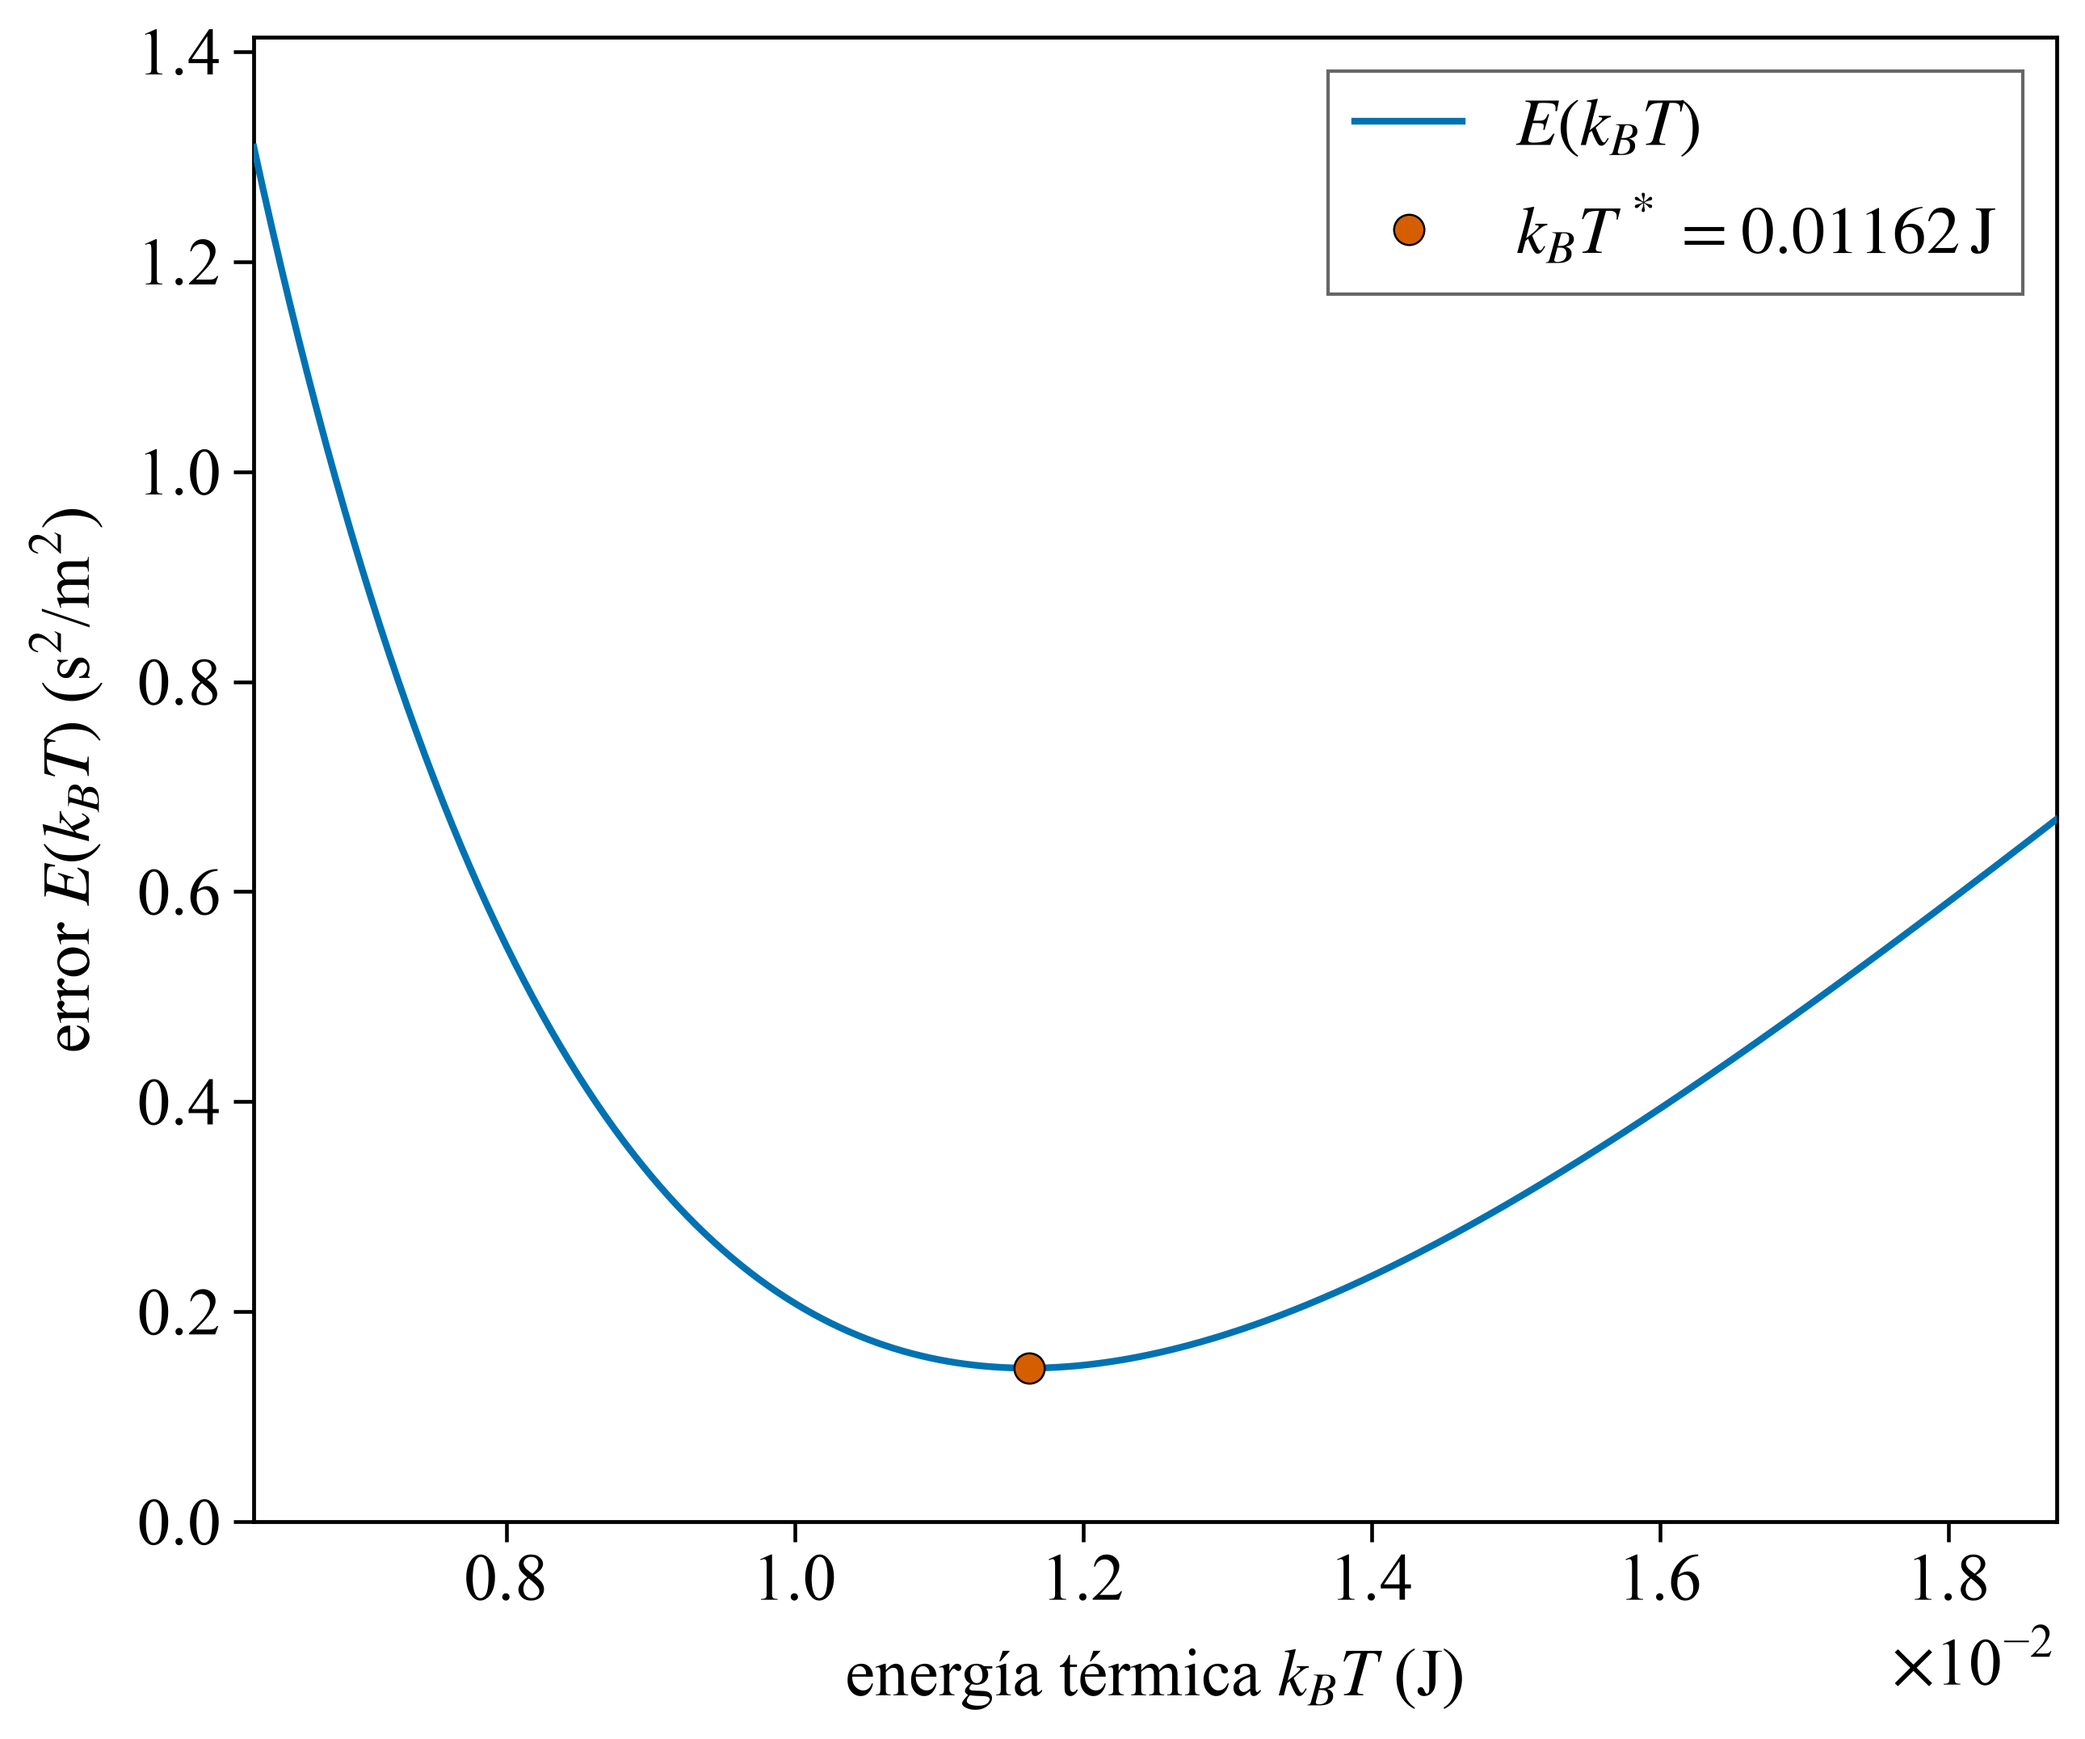
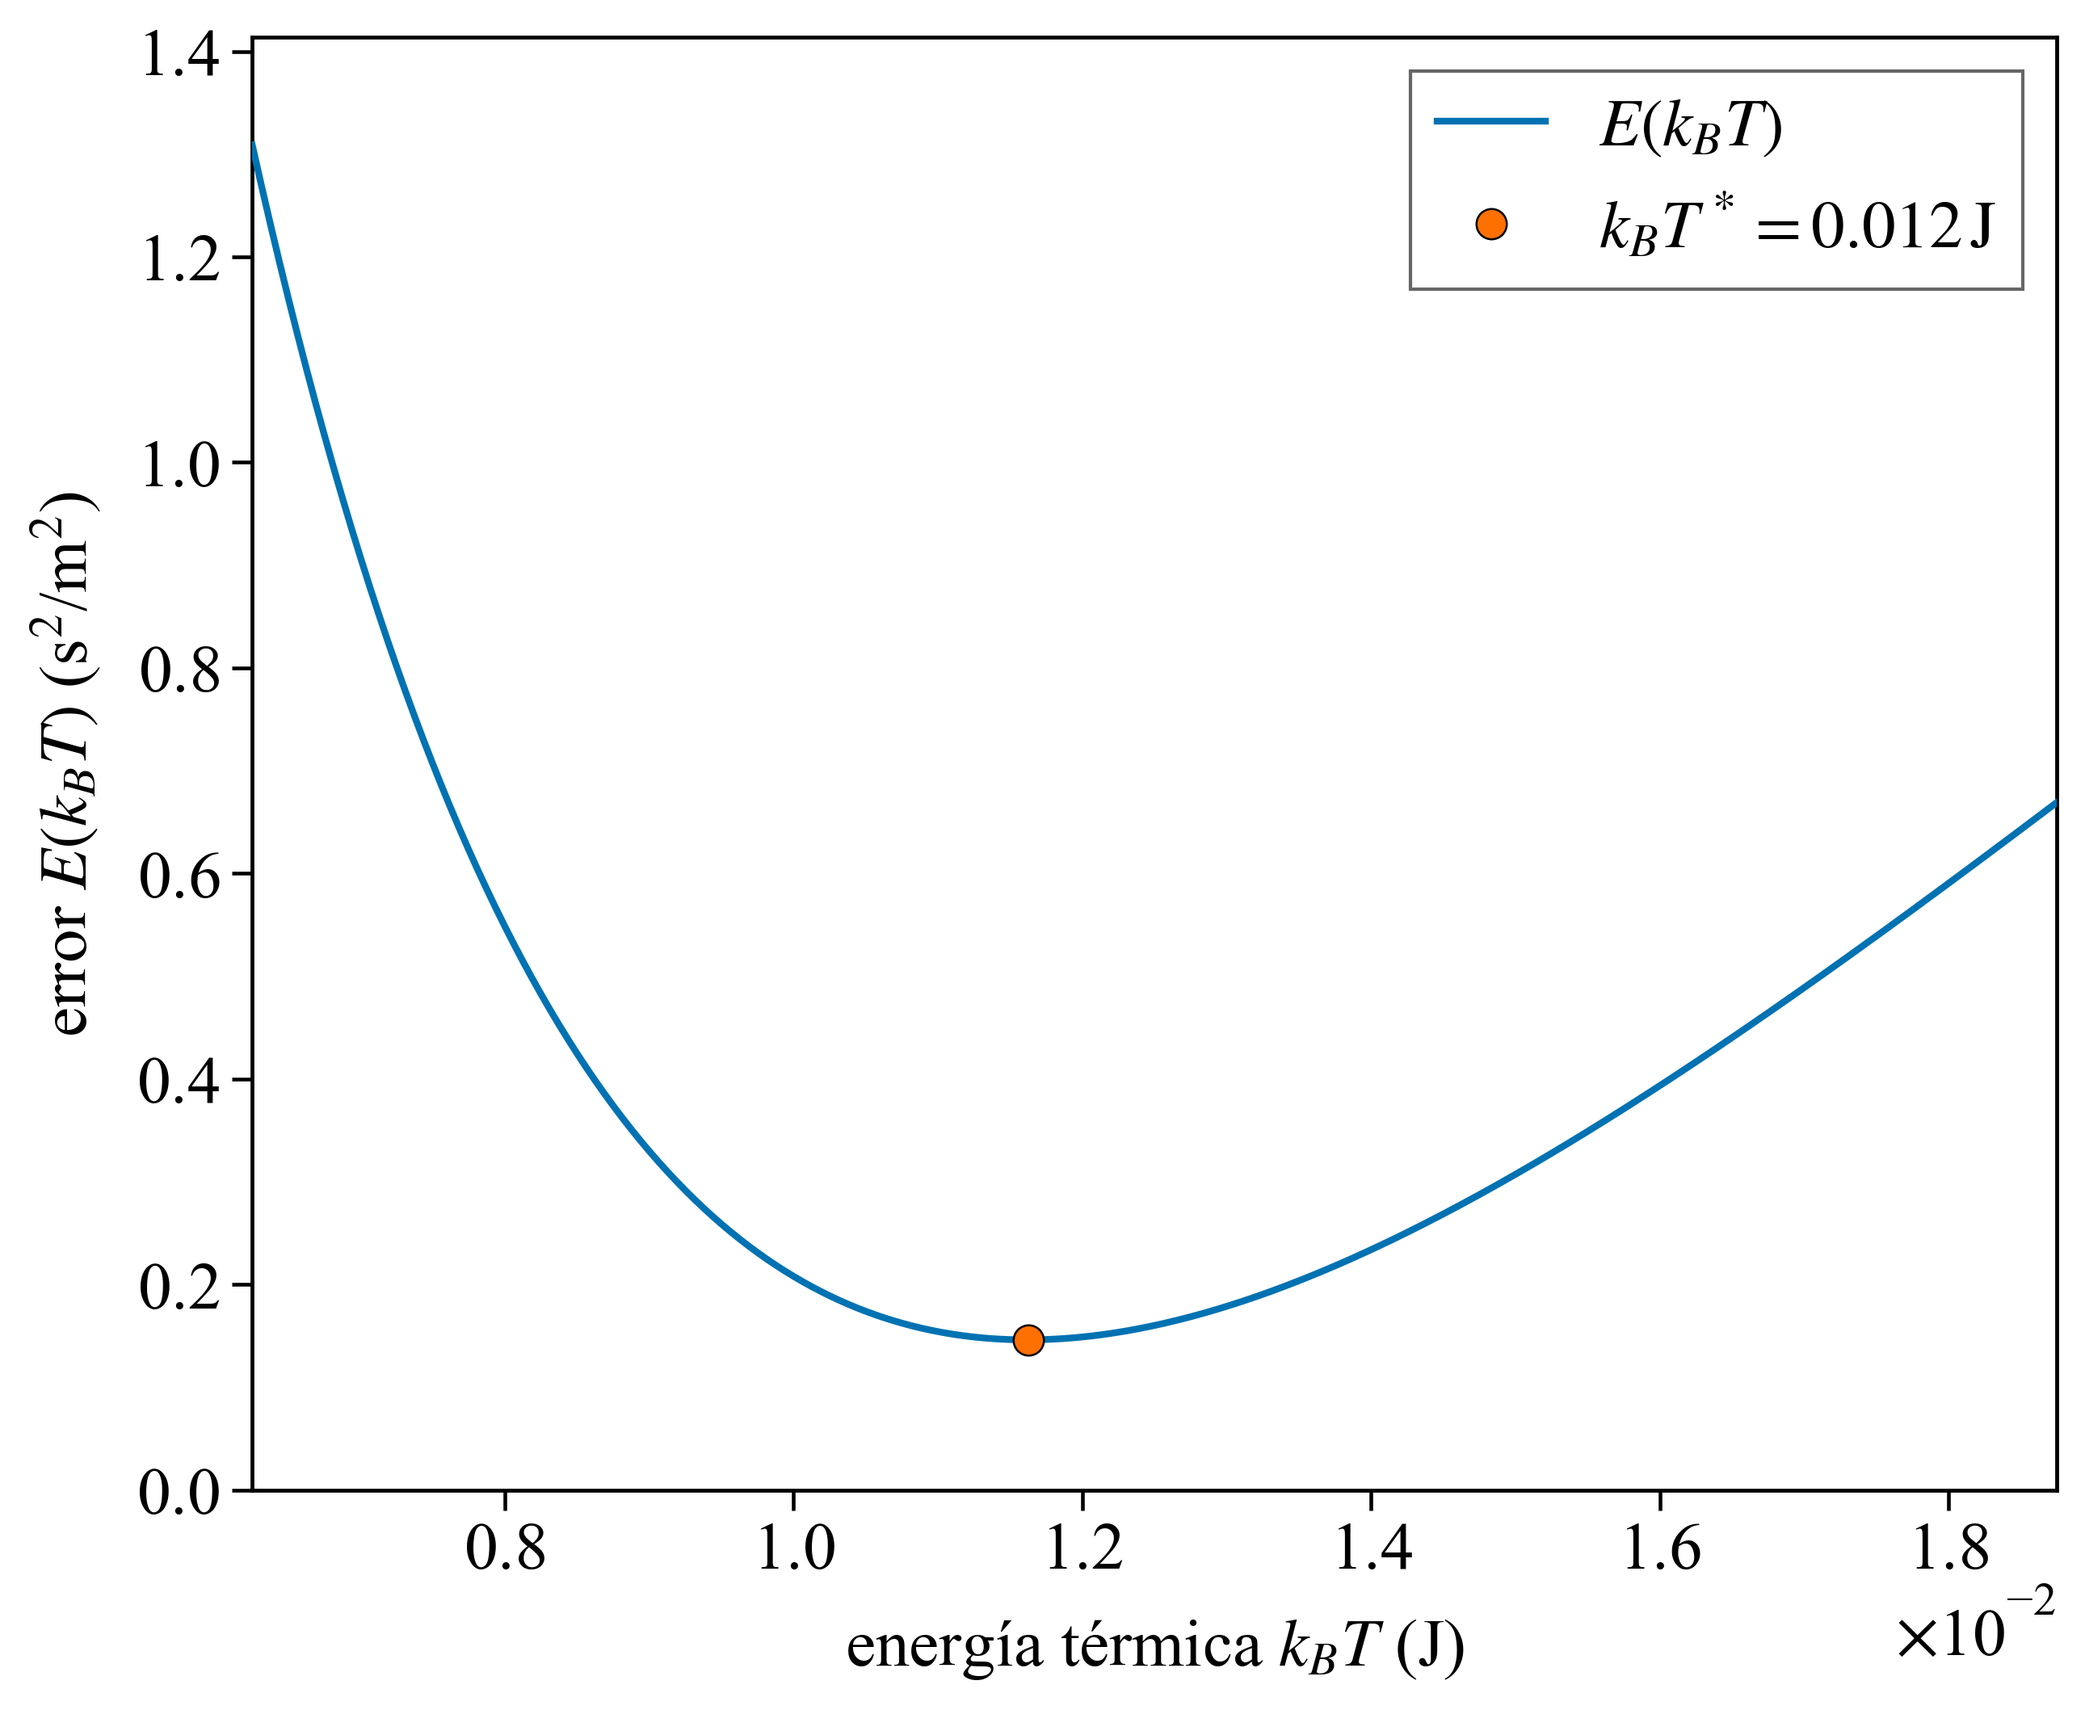
Various changes

diff --git a/docs/presentation/secciones/introduccion.tex b/docs/presentation/secciones/introduccion.tex
@@ -2,27 +2,36 @@
 
   \textbf{Ecuación de movimiento partícula $i$}:
   \[
-    m_i\,\ddot{\boldsymbol{r}}_i = \sum_{j\neq i} \boldsymbol{F}_{ij}
+    m_i\,\ddot{\vv{r}}_i = \sum_{j\neq i} \vv{F}_{ij}
   \]
 
   \textbf{Fuerza de contacto partícula $j$ sobre $i$}:
   \[
-    \boldsymbol{F}_{ij} = k\,[\xi_{ij}]_{+}\,\frac{\boldsymbol{r}_{ij}}{|\boldsymbol{r}_{ij}|},
+    \vv{F}_{ij} = k\,[\xi_{ij}]_{+}\,\frac{\vv{r}_{ij}}{|\vv{r}_{ij}|},
     \qquad
-    \xi_{ij} = r_i + r_j - |\boldsymbol{r}_{ij}|
+    \xi_{ij} = r_i + r_j - |\vv{r}_{ij}|
   \]
 
-  \begin{itemize}
-    \item $m_i$: masa partícula $i$
-    \item $k$: constante elástica
-    \item $r_i$: radio partícula $i$
-    \item $\xi_{ij}$: superposición entre $i$ y $j$
-  \end{itemize}
+  \begin{columns}[T]
+    \begin{column}{0.45\textwidth}
+      \begin{itemize}
+        \item $m_i$: masa partícula $i$
+        \item $r_i$: radio partícula $i$
+      \end{itemize}
+    \end{column}
+    \begin{column}{0.45\textwidth}
+      \begin{itemize}
+        \item $k$: constante elástica
+        \item $\xi_{ij}$: superposición entre $i$ y $j$
+      \end{itemize}
+    \end{column}
+  \end{columns}
 
+  \vspace{10pt}
   \textbf{Energía del sistema:}
   \[
-   E_{total} = \sum_{i=1}^{N} \frac{1}{2}\,m_i\,|\boldsymbol{v}_i|^{2}
-    + \sum_{i=1}^{N-1}\sum_{j=i+1}^{N} E^{pot}_{ij} 
-    \qquad E^{pot}_{ij} = \frac{k}{2}\,[\xi_{ij}]_{+}^{2},    
+   E_{total} = \sum_{i=1}^{N} \frac{1}{2}\,m_i\,|\vv{v}_i|^{2}
+    + \sum_{i=1}^{N-1}\sum_{j=i+1}^{N} E^{pot}_{ij}
+    \qquad E^{pot}_{ij} = \frac{k}{2}\,[\xi_{ij}]_{+}^{2},
   \]
 \end{frame}

diff --git a/docs/presentation/secciones/implementacion.tex b/docs/presentation/secciones/implementacion.tex
@@ -2,10 +2,8 @@
     \centering
     \begin{columns}
         \begin{column}{0.75\textwidth}
-            \begin{figure}
-                \centering
-            \includegraphics[width=1\linewidth]{uml_simple_billiard.png}
-            \end{figure}
+            \centering
+            \includegraphics[width=\linewidth,height=0.82\textheight,keepaspectratio]{uml_simple_billiard.png}
         \end{column}
         \begin{column}{0.25\textwidth}
             \begin{itemize}
@@ -13,4 +11,23 @@
             \end{itemize}
         \end{column}
     \end{columns}
+\end{frame}
+
+\begin{frame}[fragile]{Integración con Verlet}
+  \begin{columns}
+    \begin{column}{0.72\textwidth}
+      \begin{algorithmic}[1]
+        \Require $\vv{r}_i(0),\, \vv{v}_i(0)$, obstáculos, $dt$, $t_f$, $n$
+        \State $\vv{r}_i(-dt) \gets \vv{r}_i - \vv{v}_i\,dt + \frac{dt^2}{2m}\vv{F}_i$
+        \For{$t = 0,\, dt,\, \dots,\, t_f$}
+          \State $\vv{F}_i \gets \sum_j \vv{F}_{ij}$
+          \State frescas con $\xi_{io} > 0$ $\to$ usadas
+          \State $\vv{r}_i(t+dt) \gets 2\vv{r}_i(t) - \vv{r}_i(t-dt) + \frac{dt^2}{m}\vv{F}_i$
+          \State $\vv{v}_i(t) \gets \frac{\vv{r}_i(t+dt) - \vv{r}_i(t-dt)}{2\,dt}$
+          \If{paso múltiplo de $n$} escribir $t,\, \vv{r}_i,\, \vv{v}_i$, estado
+          \EndIf
+        \EndFor
+      \end{algorithmic}
+    \end{column}
+  \end{columns}
 \end{frame}

diff --git a/docs/presentation/secciones/simulaciones.tex b/docs/presentation/secciones/simulaciones.tex
@@ -40,8 +40,36 @@
       \begin{itemize}\setlength{\itemsep}{12pt}
         \item Deriva: $\max_t |E(t) - E(0)|/|E(0)|$
         \item $f(v) = N_i/(N\,\Delta v)$, con $v = |\vv{v}|$
-        \item Promedio y desvío estándar muestral
       \end{itemize}
+    \end{column}
+  \end{columns}
+  \vspace{14pt}
+  \small
+  Sobre $M$ realizaciones, para $X = t_{90},\, t_{100},\, F_u(t),\, f(v)$:
+  \[
+    \langle X\rangle = \frac{1}{M}\sum_{k=1}^{M} X^{(k)},
+    \qquad
+    \sigma_X = \sqrt{\frac{1}{M-1}\sum_{k=1}^{M}\big(X^{(k)} - \langle X\rangle\big)^2}
+  \]
+\end{frame}
+
+\begin{frame}{Simulaciones realizadas}
+  \begin{columns}
+    \begin{column}{0.80\textwidth}
+      \centering
+      \small
+      \begin{tabular}{lllll}
+        \hline
+        Punto & $N$ & $x_o$ & Duración & $M$ \\
+        \hline
+        2.1a & $300$ & sin obstáculos & $30\uni{s}$ & $1$ \\
+        2.1b & $10$ a $650$ & $r$ & $30\uni{s}$ & $10$ \\
+        2.2 & $20$ y $100$ & $9$ valores de $r$ a $R - r$ & $100\uni{s}$ & $30$ \\
+        2.3 & $100$ & sin obstáculos & $10\uni{s}$ & $10$ \\
+        2.4a & $10$ a $650$ & $r$ & hasta $N_u = N$ & $10$ \\
+        2.4b & $20$ a $400$ & $9$ valores de $r$ a $R - r$ & hasta $N_u = N$ & $30$ \\
+        \hline
+      \end{tabular}
     \end{column}
   \end{columns}
 \end{frame}

diff --git a/scripts/plotters/plot_fv_panels.py b/scripts/plotters/plot_fv_panels.py
@@ -132,7 +132,7 @@ def main() -> None:
         curve_v = [xmax * i / 400 for i in range(401)]
         curve_f = [mb_pdf(v, args.m, args.fit) for v in curve_v]
         for ax in axes[:n]:
-            ax.plot(curve_v, curve_f, color="black", linestyle="--", linewidth=1.4, zorder=4, label=rf"$k_B T^* = {args.fit:.3g}\,\mathrm{{J}}$")
+            ax.plot(curve_v, curve_f, color="black", linestyle="--", linewidth=1.4, zorder=4, label=rf"$k_B T^* = {args.fit:.2g}\,\mathrm{{J}}$")
         ymax = max(ymax, max(curve_f))
 
     axes[0].set_xlim(0.0, xmax)

diff --git a/docs/presentation/secciones/res_23.tex b/docs/presentation/secciones/res_23.tex
@@ -8,6 +8,7 @@
     \begin{column}{0.23\textwidth}
       \begin{parametros}
         \item Sin obstáculos, $N = 100$
+        \item $\Delta v = 0.1\uni{m/s}$
         \item $10$ realizaciones
       \end{parametros}
       \begin{resultado}
@@ -40,7 +41,7 @@
         \hline
         Esperado                  & $1.25$ \\
         Medido ($t = 10\uni{s}$)  & $1.23$ \\
-        Ajustado                  & $1.16 \pm 0.13$ \\
+        Ajustado                  & $1.2 \pm 0.1$ \\
         \hline
       \end{tabular}
     \end{column}

diff --git a/docs/presentation/main.tex b/docs/presentation/main.tex
@@ -24,6 +24,8 @@ Instituto Tecnológico de Buenos Aires (ITBA)\\
 \section{Introducción}
 \input{secciones/introduccion}
 
+\section{Implementación}
+\input{secciones/implementacion}
 
 \section{Simulaciones}
 \input{secciones/simulaciones}
@@ -40,6 +42,8 @@ Instituto Tecnológico de Buenos Aires (ITBA)\\
 \begin{frame}[plain,noframenumbering]
   \vfill\centering{\Huge\usebeamercolor[fg]{structure}Muchas gracias}\vfill
 \end{frame}
+
+\input{secciones/ia}
 
 \appendix
 \section*{Anexo}

diff --git a/docs/presentation/secciones/ia.tex b/docs/presentation/secciones/ia.tex
@@ -1,0 +1,11 @@
+\begin{frame}{Declaración de uso de IA}
+  \begin{itemize}\setlength{\itemsep}{10pt}
+    \item Agente: Claude Code
+    \item Modelo: Claude Opus 5.5
+    \item Uso:
+      \begin{itemize}
+        \item Revisión de la presentación contra el enunciado y guía
+        \item Elaboración de los scripts de postprocesamiento
+      \end{itemize}
+  \end{itemize}
+\end{frame}

diff --git a/docs/presentation/secciones/res_24.tex b/docs/presentation/secciones/res_24.tex
@@ -50,10 +50,8 @@
     \end{column}
     \begin{column}{0.34\textwidth}
       \begin{parametros}
-        \item $x_o = r$
         \item $N$ de $10$ a $650$
         \item $N > 400$: red hexagonal
-        \item $10$ realizaciones
       \end{parametros}
       \begin{resultado}
         \item $\langle t_{90}\rangle$ y $\langle t_{100}\rangle$ mínimas en $N = 30$

diff --git a/scripts/plotters/plot_fit_error.py b/scripts/plotters/plot_fit_error.py
@@ -58,7 +58,7 @@ def main() -> None:
         markeredgecolor="black",
         markeredgewidth=0.6,
         zorder=4,
-        label=rf"$k_B T^* = {kbts[i_min]:.4g}\,\mathrm{{J}}$",
+        label=rf"$k_B T^* = {kbts[i_min]:.2g}\,\mathrm{{J}}$",
     )
     if args.reference is not None:
         ax.vlines(

diff --git a/docs/presentation/secciones/res_21.tex b/docs/presentation/secciones/res_21.tex
@@ -7,6 +7,7 @@
       \begin{parametros}
         \item $N = 300$
         \item Sin obstáculos
+        \item $1$ realización
       \end{parametros}
     \end{column}
   \end{cols}
